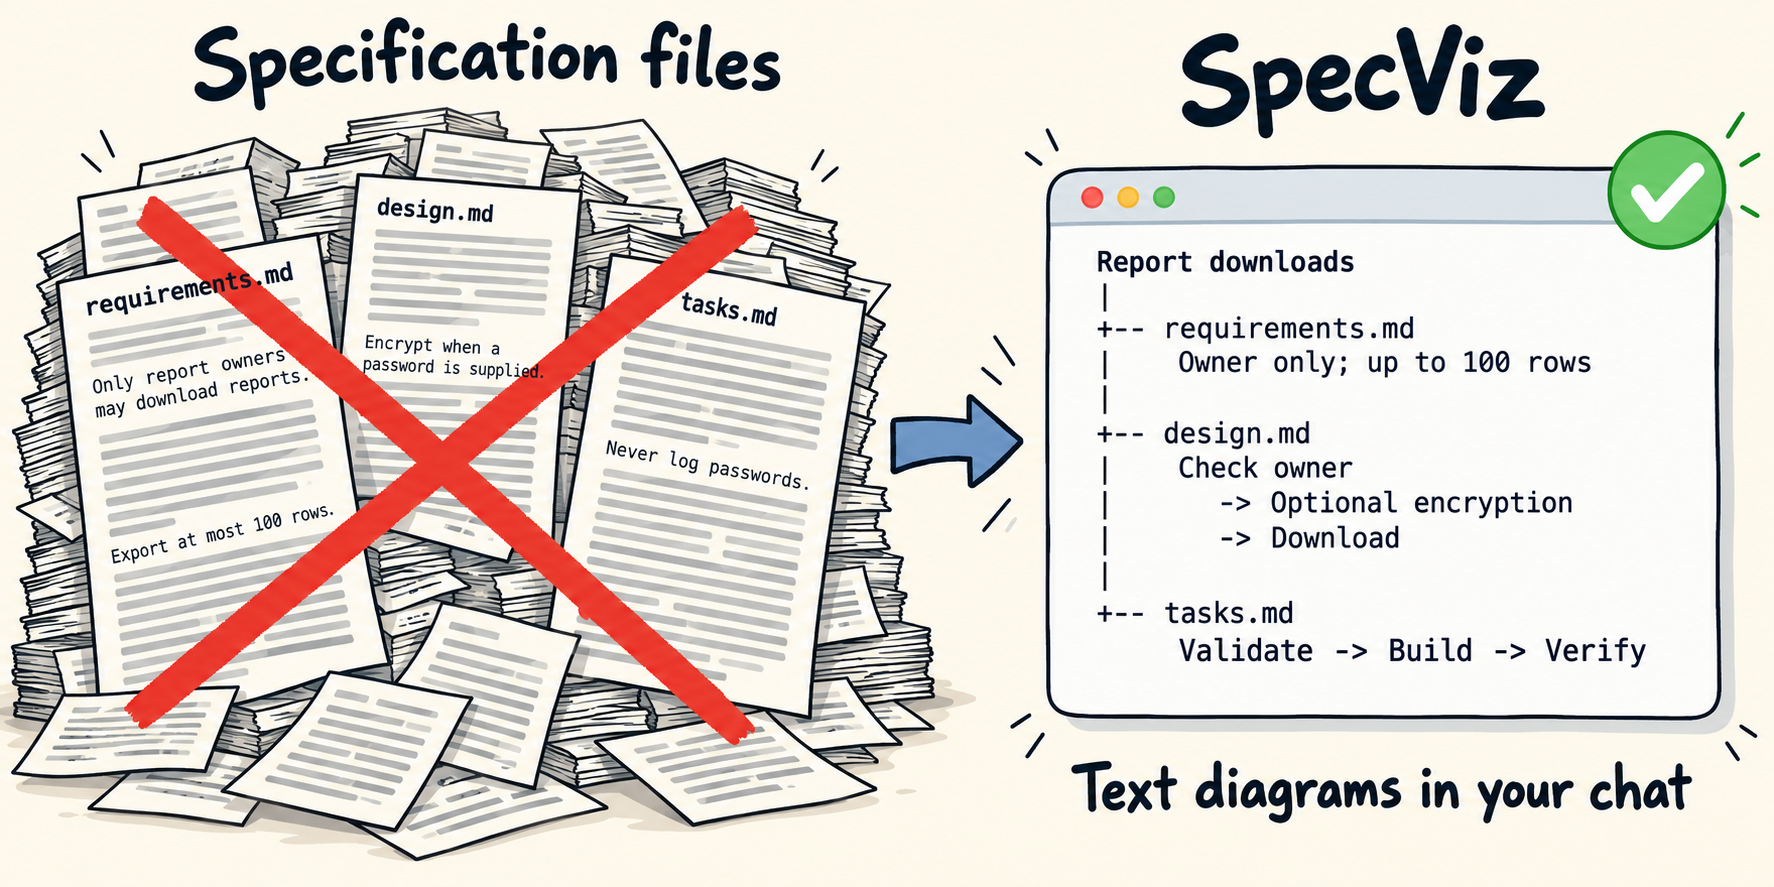
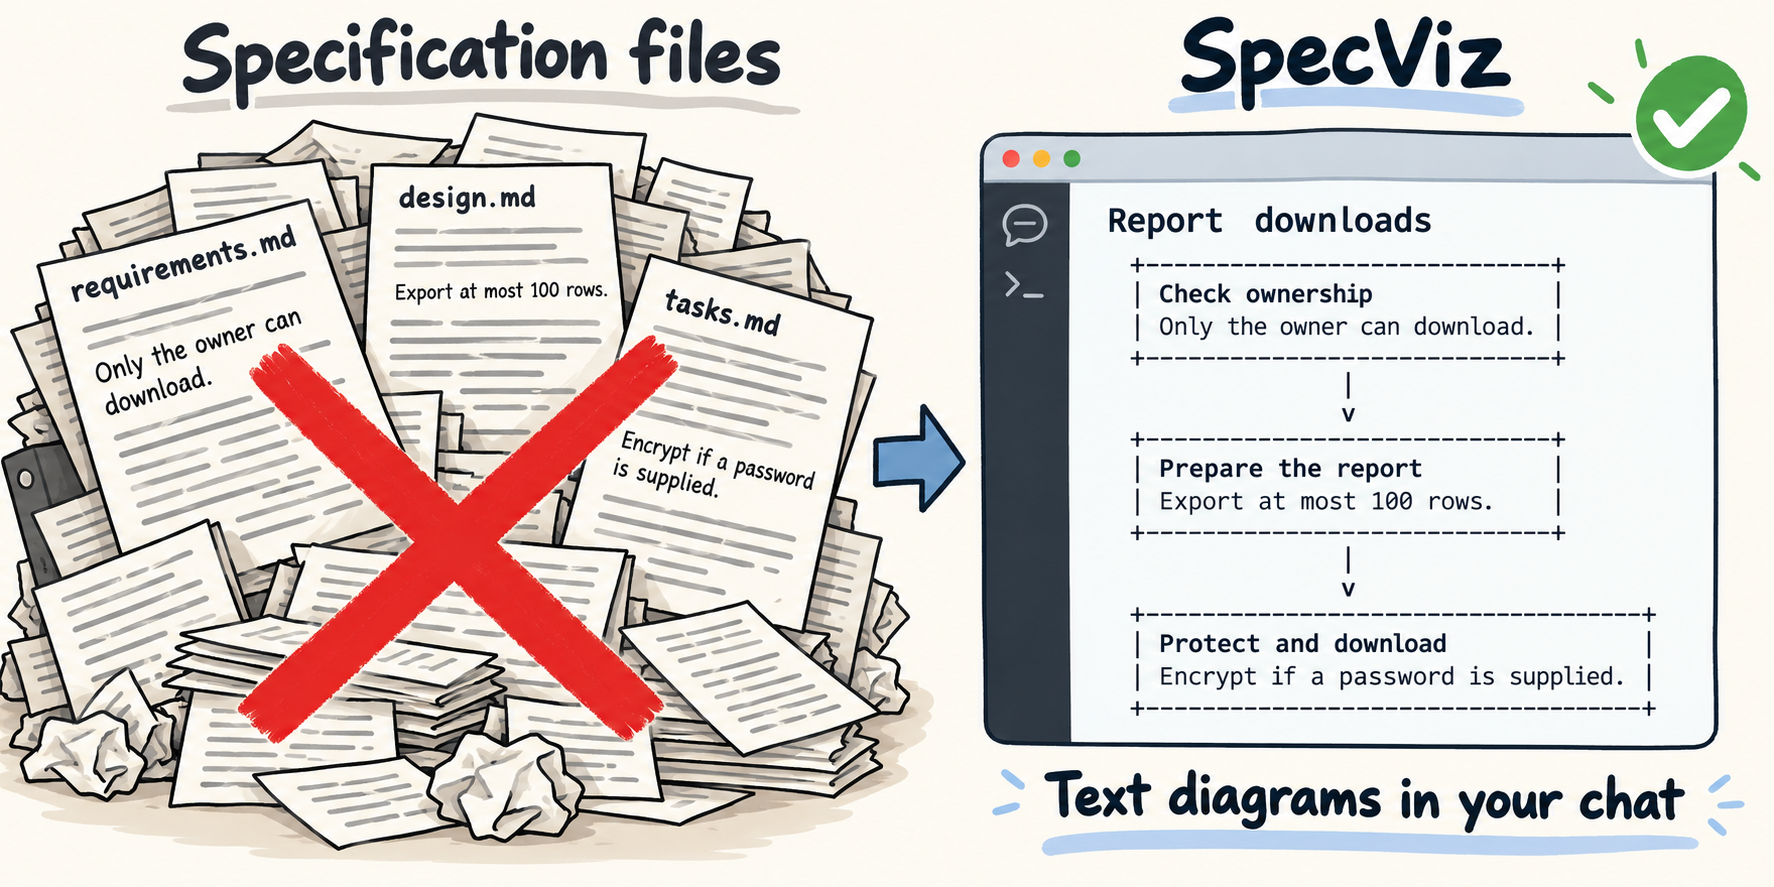
Restore cartoon at the top of the README

diff --git a/README.md b/README.md
@@ -2,7 +2,9 @@
 
 **See the plan before reading every specification.**
 
-SpecViz turns your specs into connected **text boxes inside your coding chat**.
+![A pile of specification files crossed out in red beside SpecViz showing connected text boxes directly in a coding chat.](docs/assets/specviz-overview.png)
+
+SpecViz turns your specs into **flowchat inside your coding chat**.
 Follow the behavior, understand the conditions, then choose a file to explore.
 Works with **Codex · Claude Code · Antigravity**.
 
@@ -92,8 +94,6 @@ tasks.md
   [ ] Add bounded export generation.
   [ ] Verify optional encryption and password handling.
 ```
-
-![Specification text beside SpecViz's in-chat diagrams.](docs/assets/specviz-overview.png)
 
 </details>
 
